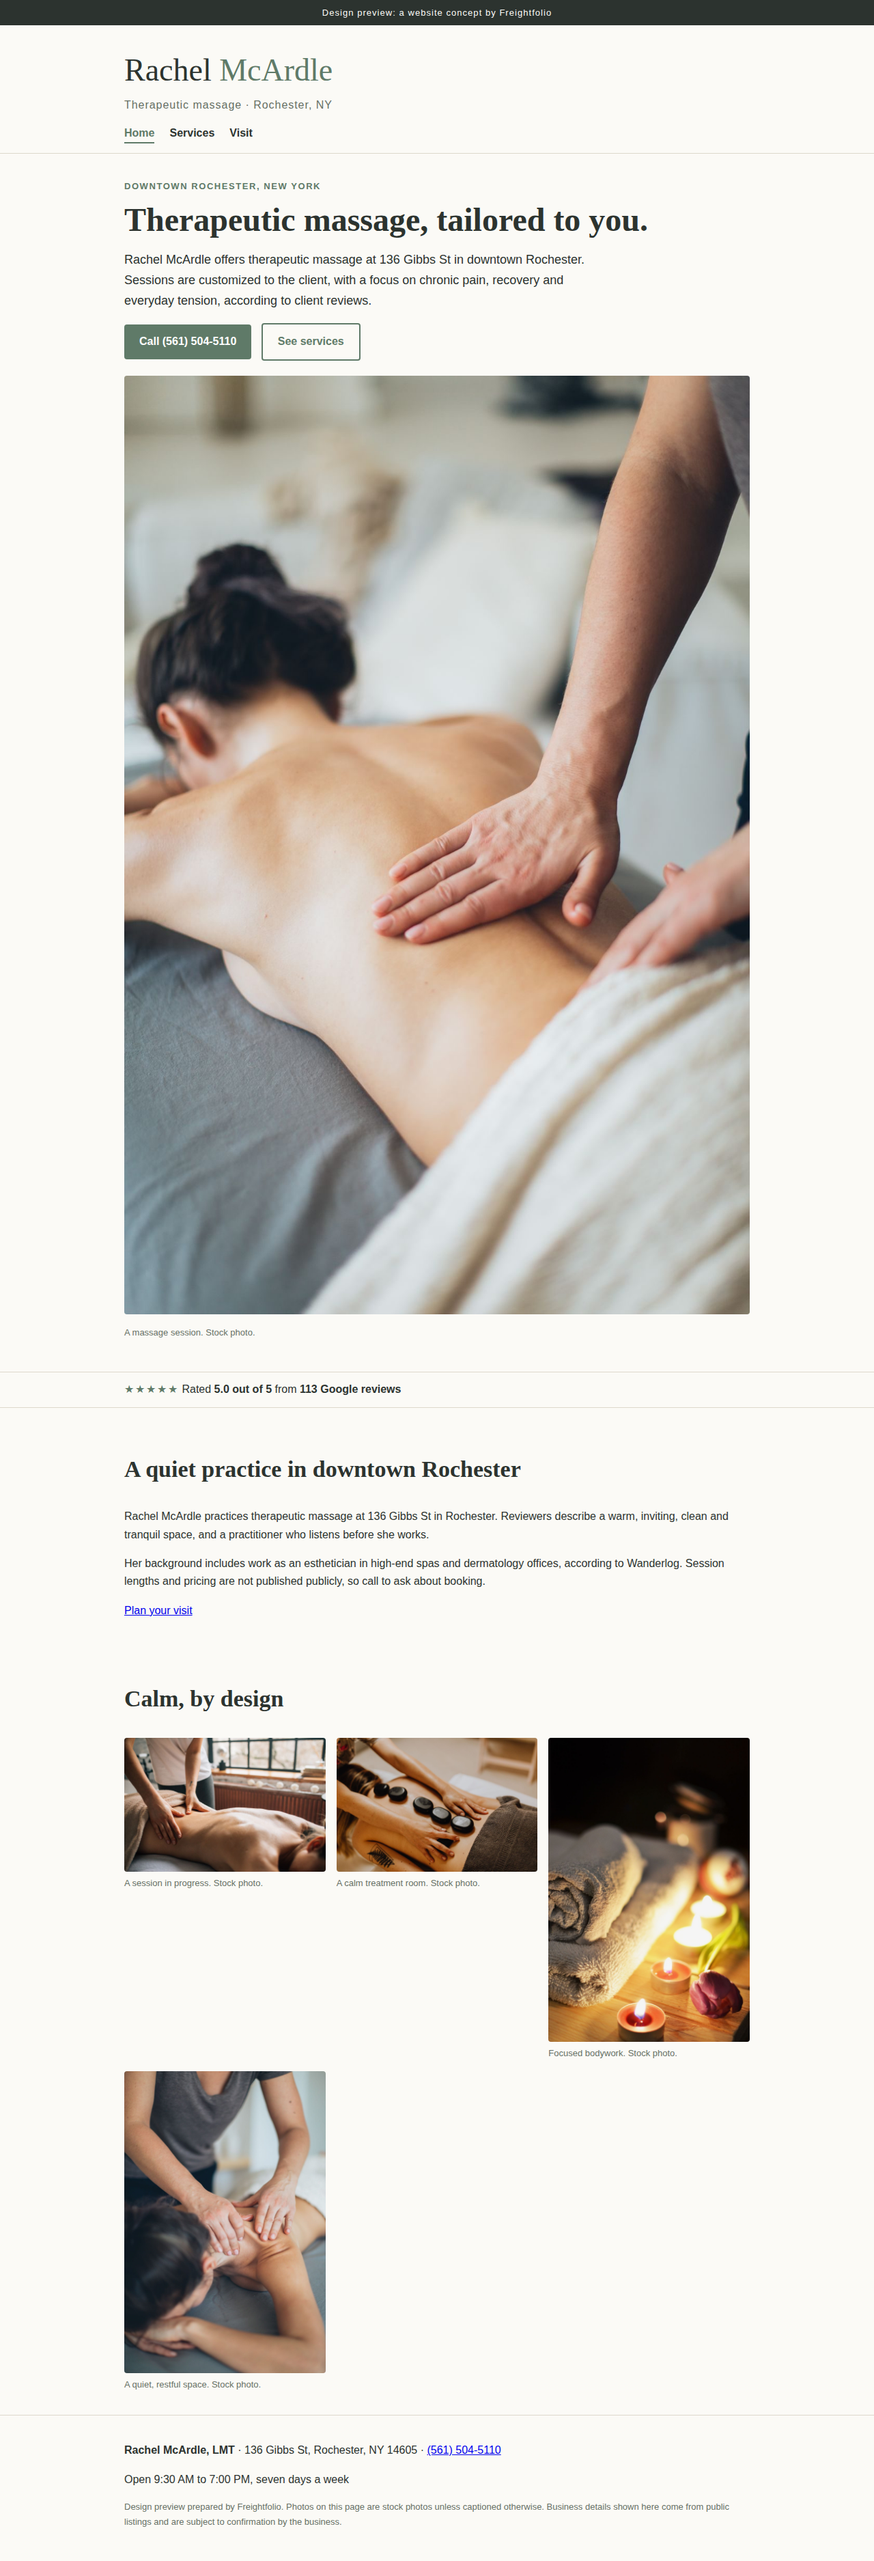
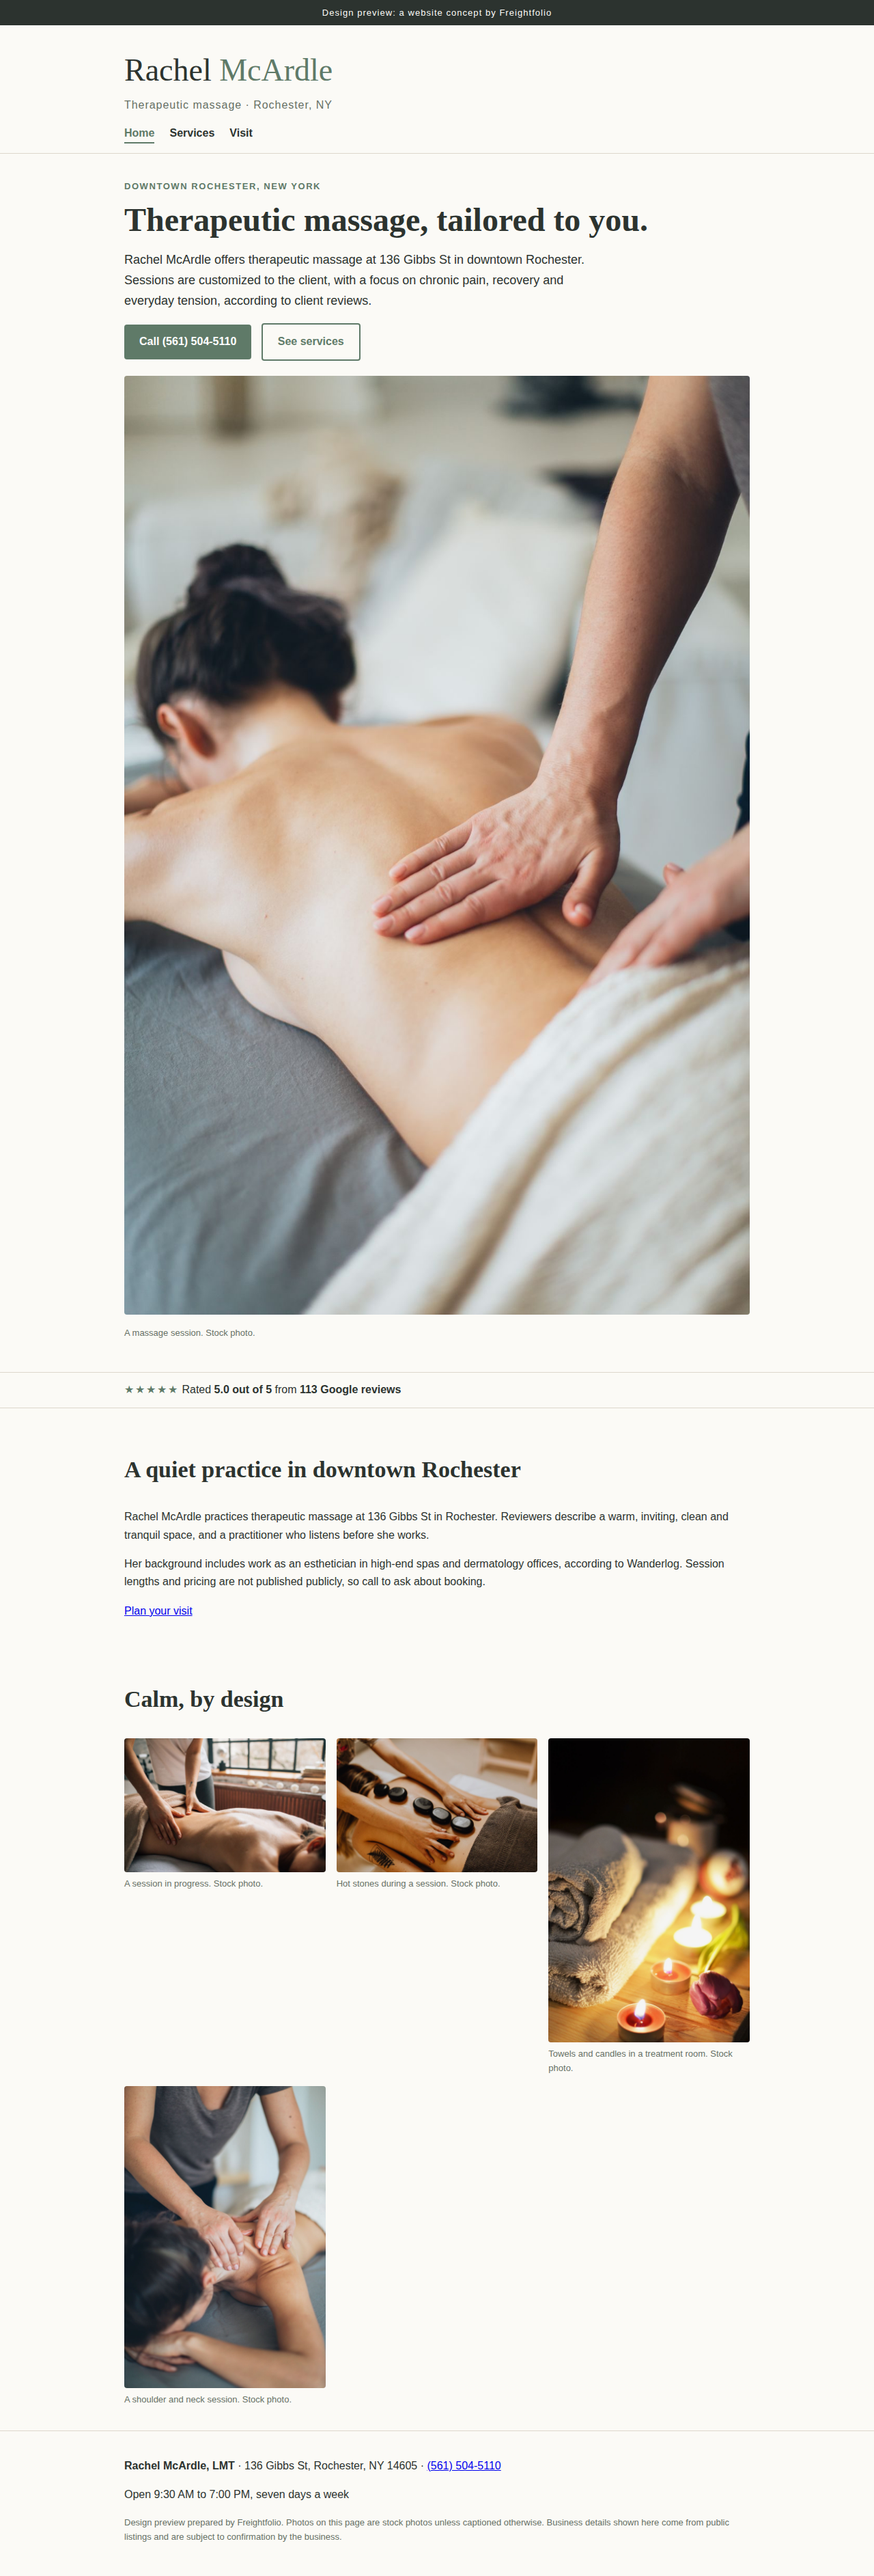
Website Dev shift 2026-10-24 03:58 CT fix: Rachel gallery captions now match photos (hot stones, towels/candles, shoulder session); Melissa nail color spelling

diff --git a/concepts/rachel-mcardle-lmt-403e2973cff381fd/index.html b/concepts/rachel-mcardle-lmt-403e2973cff381fd/index.html
@@ -30,7 +30,7 @@
 <section class="ed"><div class="wrap"><h2>A quiet practice in downtown Rochester</h2>
 <p>Rachel McArdle practices therapeutic massage at 136 Gibbs St in Rochester. Reviewers describe a warm, inviting, clean and tranquil space, and a practitioner who listens before she works.</p><p>Her background includes work as an esthetician in high-end spas and dermatology offices, according to Wanderlog. Session lengths and pricing are not published publicly, so call to ask about booking.</p>
 <p><a href="visit.html">Plan your visit</a></p></div></section>
-<section class="gal"><div class="wrap"><h2>Calm, by design</h2><div class="grid"><figure><img src="img/session2.jpg" alt="A session in progress. Stock photo."><figcaption>A session in progress. Stock photo.</figcaption></figure><figure><img src="img/room.jpg" alt="Hot stones during a session. Stock photo."><figcaption>A calm treatment room. Stock photo.</figcaption></figure><figure><img src="img/detail.jpg" alt="Towels and candles in a treatment room. Stock photo."><figcaption>Focused bodywork. Stock photo.</figcaption></figure><figure><img src="img/calm.jpg" alt="A shoulder and neck session. Stock photo."><figcaption>A quiet, restful space. Stock photo.</figcaption></figure></div></div></section>
+<section class="gal"><div class="wrap"><h2>Calm, by design</h2><div class="grid"><figure><img src="img/session2.jpg" alt="A session in progress. Stock photo."><figcaption>A session in progress. Stock photo.</figcaption></figure><figure><img src="img/room.jpg" alt="Hot stones during a session. Stock photo."><figcaption>Hot stones during a session. Stock photo.</figcaption></figure><figure><img src="img/detail.jpg" alt="Towels and candles in a treatment room. Stock photo."><figcaption>Towels and candles in a treatment room. Stock photo.</figcaption></figure><figure><img src="img/calm.jpg" alt="A shoulder and neck session. Stock photo."><figcaption>A shoulder and neck session. Stock photo.</figcaption></figure></div></div></section>
 
 <footer><div class="wrap">
 <p><strong>Rachel McArdle, LMT</strong> &middot; 136 Gibbs St, Rochester, NY 14605 &middot; <a href="tel:+15615045110">(561) 504-5110</a></p>

diff --git a/concepts/melissa-nails-403e2973cff381a7/index.html b/concepts/melissa-nails-403e2973cff381a7/index.html
@@ -29,7 +29,7 @@
 <section class="ed"><div class="wrap"><h2>A long-running Albany salon</h2>
 <p>Melissa Nails has served Albany since 1997, according to its hub.biz listing, which also describes it as women-owned. The salon sits on Clinton Ave, and reviews mention eyebrow waxing, facials and eyelash services alongside nails.</p><p>Walk-ins are welcome, according to customer reviews. No price list is published publicly, so ask in the salon about services and pricing.</p>
 <p><a href="visit.html">Plan your visit</a></p></div></section>
-<section class="gal"><div class="wrap"><h2>Inside the salon</h2><div class="grid"><figure><img src="img/salon.jpg" alt="Inside a nail salon. Stock photo."><figcaption>Inside a nail salon. Stock photo.</figcaption></figure><figure><img src="img/manicure.jpg" alt="A finished manicure. Stock photo."><figcaption>A finished manicure. Stock photo.</figcaption></figure><figure><img src="img/nails.jpg" alt="Nail colour and finish. Stock photo."><figcaption>Nail colour and finish. Stock photo.</figcaption></figure><figure><img src="img/pedicure.jpg" alt="A pedicure chair. Stock photo."><figcaption>A pedicure chair. Stock photo.</figcaption></figure></div></div></section>
+<section class="gal"><div class="wrap"><h2>Inside the salon</h2><div class="grid"><figure><img src="img/salon.jpg" alt="Inside a nail salon. Stock photo."><figcaption>Inside a nail salon. Stock photo.</figcaption></figure><figure><img src="img/manicure.jpg" alt="A finished manicure. Stock photo."><figcaption>A finished manicure. Stock photo.</figcaption></figure><figure><img src="img/nails.jpg" alt="Nail color and finish. Stock photo."><figcaption>Nail color and finish. Stock photo.</figcaption></figure><figure><img src="img/pedicure.jpg" alt="A pedicure chair. Stock photo."><figcaption>A pedicure chair. Stock photo.</figcaption></figure></div></div></section>
 
 <footer><div class="wrap">
 <p><strong>Melissa Nails</strong> &middot; 608 Clinton Ave, Albany, NY 12206 &middot; <a href="tel:+15184651060">(518) 465-1060</a></p>
